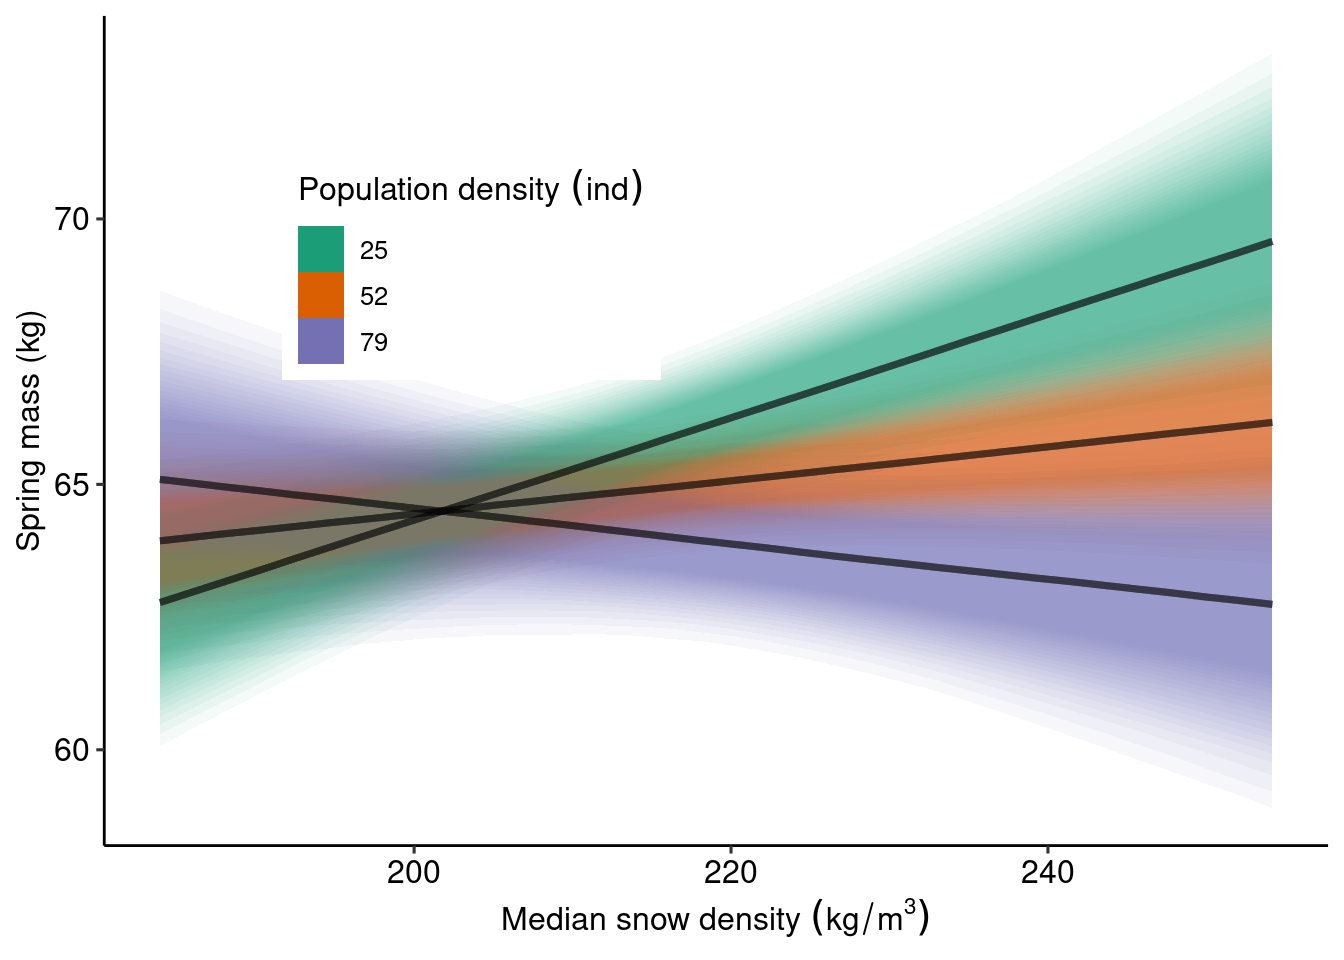
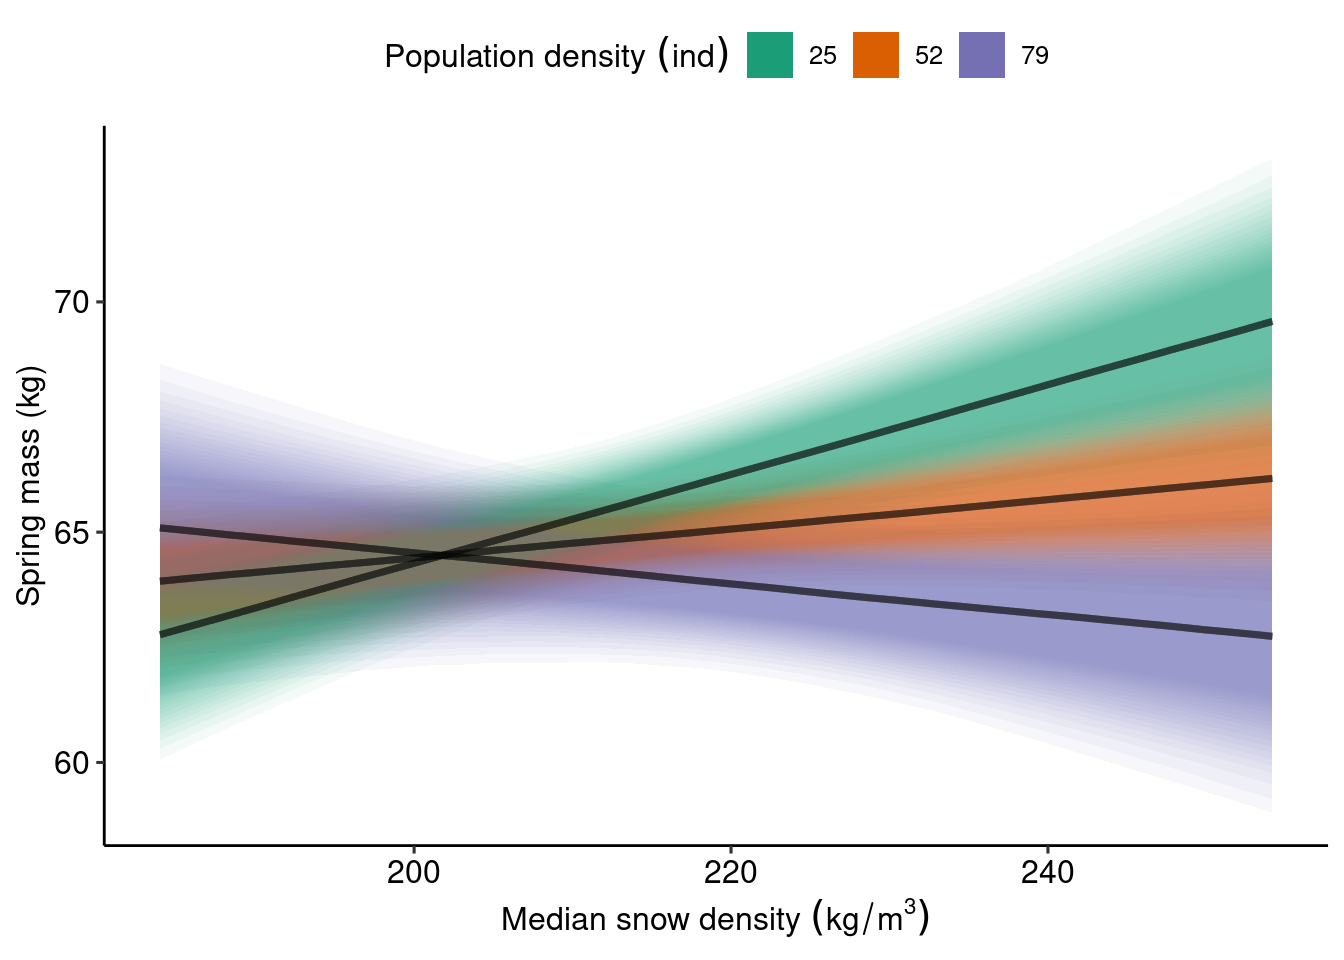
Update final plot in kallan_case_study

diff --git a/docs/kallan_case_study.html b/docs/kallan_case_study.html
@@ -411,7 +411,7 @@ pre > code.sourceCode > span > a:first-child::before { text-decoration: underlin
 <section id="plot" class="level3">
 <h3 class="anchored" data-anchor-id="plot">plot</h3>
 <div class="cell">
-<div class="sourceCode cell-code" id="cb9"><pre class="sourceCode r code-with-copy"><code class="sourceCode r"><span id="cb9-1"><a href="#cb9-1" aria-hidden="true" tabindex="-1"></a>COLS <span class="ot">&lt;-</span> <span class="fu">alpha</span>(<span class="fu">colorRampPalette</span>(<span class="fu">c</span>(<span class="st">"#d0ddd6"</span>,<span class="st">"#47a6ddb7"</span>))(<span class="dv">30</span>),<span class="fl">0.8</span>)</span>
+<div class="sourceCode cell-code" id="cb9"><pre class="sourceCode r code-with-copy"><code class="sourceCode r"><span id="cb9-1"><a href="#cb9-1" aria-hidden="true" tabindex="-1"></a>COLS <span class="ot">&lt;-</span> <span class="fu">alpha</span>(<span class="fu">colorRampPalette</span>(<span class="fu">c</span>(<span class="st">"#f7fcf9"</span>,<span class="st">"#0b6da7b7"</span>))(<span class="dv">30</span>),<span class="fl">0.8</span>)</span>
 <span id="cb9-2"><a href="#cb9-2" aria-hidden="true" tabindex="-1"></a></span>
 <span id="cb9-3"><a href="#cb9-3" aria-hidden="true" tabindex="-1"></a>plot_amass_smass <span class="sc">+</span> </span>
 <span id="cb9-4"><a href="#cb9-4" aria-hidden="true" tabindex="-1"></a>  <span class="fu">geom_line</span>(<span class="at">data =</span> p_ind_snow_smass, <span class="fu">aes</span>(<span class="at">x =</span> next_wtd12, <span class="at">y =</span> estimate, <span class="at">color =</span> avg_snow_depth, <span class="at">linewidth =</span> avg_snow_depth, <span class="at">group =</span> Reproduction_status), <span class="at">lineend =</span> <span class="st">"round"</span>) <span class="sc">+</span></span>
@@ -660,11 +660,9 @@ pre > code.sourceCode > span > a:first-child::before { text-decoration: underlin
 <span id="cb17-37"><a href="#cb17-37" aria-hidden="true" tabindex="-1"></a>    <span class="at">y =</span> <span class="st">"Spring mass (kg)"</span>,</span>
 <span id="cb17-38"><a href="#cb17-38" aria-hidden="true" tabindex="-1"></a>    <span class="at">fill  =</span> <span class="st">"Population density"</span> <span class="sc">~</span> (ind),</span>
 <span id="cb17-39"><a href="#cb17-39" aria-hidden="true" tabindex="-1"></a>  )  <span class="sc">+</span></span>
-<span id="cb17-40"><a href="#cb17-40" aria-hidden="true" tabindex="-1"></a>  <span class="fu">theme_pubr</span>() <span class="sc">+</span></span>
-<span id="cb17-41"><a href="#cb17-41" aria-hidden="true" tabindex="-1"></a>  <span class="fu">theme</span>(<span class="at">legend.position =</span> <span class="st">"inside"</span>,</span>
-<span id="cb17-42"><a href="#cb17-42" aria-hidden="true" tabindex="-1"></a>        <span class="at">legend.position.inside =</span> <span class="fu">c</span>(<span class="fl">0.3</span>, <span class="fl">0.7</span>))</span>
-<span id="cb17-43"><a href="#cb17-43" aria-hidden="true" tabindex="-1"></a></span>
-<span id="cb17-44"><a href="#cb17-44" aria-hidden="true" tabindex="-1"></a>plot_smass_snow_males</span></code><button title="Copy to Clipboard" class="code-copy-button"><i class="bi"></i></button></pre></div>
+<span id="cb17-40"><a href="#cb17-40" aria-hidden="true" tabindex="-1"></a>  <span class="fu">theme_pubr</span>()</span>
+<span id="cb17-41"><a href="#cb17-41" aria-hidden="true" tabindex="-1"></a></span>
+<span id="cb17-42"><a href="#cb17-42" aria-hidden="true" tabindex="-1"></a>plot_smass_snow_males</span></code><button title="Copy to Clipboard" class="code-copy-button"><i class="bi"></i></button></pre></div>
 <div class="cell-output-display">
 <div>
 <figure class="figure">
@@ -733,18 +731,19 @@ pre > code.sourceCode > span > a:first-child::before { text-decoration: underlin
 <span id="cb21-7"><a href="#cb21-7" aria-hidden="true" tabindex="-1"></a></span>
 <span id="cb21-8"><a href="#cb21-8" aria-hidden="true" tabindex="-1"></a>plot_ind_snow_males <span class="ot">&lt;-</span> <span class="fu">ggplot</span>() <span class="sc">+</span></span>
 <span id="cb21-9"><a href="#cb21-9" aria-hidden="true" tabindex="-1"></a>  <span class="fu">geom_line</span>(<span class="at">data =</span> p_ind_snow_smass_males, <span class="fu">aes</span>(<span class="at">x =</span> next_wtd12, <span class="at">y =</span> estimate, <span class="at">color =</span> median_density_uns, <span class="at">linewidth =</span> median_density_uns), <span class="at">lineend =</span> <span class="st">"round"</span>) <span class="sc">+</span></span>
-<span id="cb21-10"><a href="#cb21-10" aria-hidden="true" tabindex="-1"></a>  <span class="fu">scale_color_gradientn</span>(<span class="at">colours =</span> COLS, <span class="at">name =</span> <span class="st">"Med Snow Density"</span>) <span class="sc">+</span></span>
+<span id="cb21-10"><a href="#cb21-10" aria-hidden="true" tabindex="-1"></a>  <span class="fu">scale_color_gradientn</span>(<span class="at">colours =</span> COLS, <span class="at">name =</span> <span class="fu">expression</span>(<span class="st">"Median snow density "</span> (kg<span class="sc">/</span>m<span class="sc">^</span><span class="dv">3</span>))) <span class="sc">+</span></span>
 <span id="cb21-11"><a href="#cb21-11" aria-hidden="true" tabindex="-1"></a>  <span class="fu">guides</span>(<span class="at">linewidth =</span> <span class="st">"none"</span>) <span class="sc">+</span></span>
-<span id="cb21-12"><a href="#cb21-12" aria-hidden="true" tabindex="-1"></a>  <span class="fu">facet_wrap</span>(<span class="sc">~</span> Pop_Density_Label) <span class="sc">+</span></span>
-<span id="cb21-13"><a href="#cb21-13" aria-hidden="true" tabindex="-1"></a>  <span class="fu">theme</span>(<span class="at">legend.direction =</span> <span class="st">"horizontal"</span>,</span>
-<span id="cb21-14"><a href="#cb21-14" aria-hidden="true" tabindex="-1"></a>        <span class="at">legend.position =</span> <span class="st">"bottom"</span>) <span class="sc">+</span></span>
-<span id="cb21-15"><a href="#cb21-15" aria-hidden="true" tabindex="-1"></a>  <span class="fu">labs</span>(</span>
-<span id="cb21-16"><a href="#cb21-16" aria-hidden="true" tabindex="-1"></a>    <span class="at">x =</span> <span class="st">"Spring mass (kg)"</span>, </span>
-<span id="cb21-17"><a href="#cb21-17" aria-hidden="true" tabindex="-1"></a>    <span class="at">y =</span> <span class="st">"Autumn mass (kg)"</span></span>
-<span id="cb21-18"><a href="#cb21-18" aria-hidden="true" tabindex="-1"></a>  )  <span class="sc">+</span></span>
-<span id="cb21-19"><a href="#cb21-19" aria-hidden="true" tabindex="-1"></a>  <span class="fu">theme_pubr</span>()</span>
-<span id="cb21-20"><a href="#cb21-20" aria-hidden="true" tabindex="-1"></a></span>
-<span id="cb21-21"><a href="#cb21-21" aria-hidden="true" tabindex="-1"></a>plot_ind_snow_males</span></code><button title="Copy to Clipboard" class="code-copy-button"><i class="bi"></i></button></pre></div>
+<span id="cb21-12"><a href="#cb21-12" aria-hidden="true" tabindex="-1"></a>  <span class="fu">facet_wrap</span>(<span class="sc">~</span> Pop_Density_Label, </span>
+<span id="cb21-13"><a href="#cb21-13" aria-hidden="true" tabindex="-1"></a>             <span class="at">labeller =</span> <span class="fu">as_labeller</span>(<span class="fu">c</span>(<span class="st">`</span><span class="at">25</span><span class="st">`</span> <span class="ot">=</span> <span class="st">"Pop. dens. = 25"</span>,</span>
+<span id="cb21-14"><a href="#cb21-14" aria-hidden="true" tabindex="-1"></a>                                      <span class="st">`</span><span class="at">52</span><span class="st">`</span> <span class="ot">=</span> <span class="st">"Pop. dens. = 52"</span>,</span>
+<span id="cb21-15"><a href="#cb21-15" aria-hidden="true" tabindex="-1"></a>                                      <span class="st">`</span><span class="at">79</span><span class="st">`</span> <span class="ot">=</span> <span class="st">"Pop. dens. = 79"</span>))) <span class="sc">+</span></span>
+<span id="cb21-16"><a href="#cb21-16" aria-hidden="true" tabindex="-1"></a>  <span class="fu">labs</span>(</span>
+<span id="cb21-17"><a href="#cb21-17" aria-hidden="true" tabindex="-1"></a>    <span class="at">x =</span> <span class="st">"Spring mass (kg)"</span>, </span>
+<span id="cb21-18"><a href="#cb21-18" aria-hidden="true" tabindex="-1"></a>    <span class="at">y =</span> <span class="st">"Autumn mass (kg)"</span></span>
+<span id="cb21-19"><a href="#cb21-19" aria-hidden="true" tabindex="-1"></a>  )  <span class="sc">+</span></span>
+<span id="cb21-20"><a href="#cb21-20" aria-hidden="true" tabindex="-1"></a>  <span class="fu">theme_pubr</span>() </span>
+<span id="cb21-21"><a href="#cb21-21" aria-hidden="true" tabindex="-1"></a></span>
+<span id="cb21-22"><a href="#cb21-22" aria-hidden="true" tabindex="-1"></a>plot_ind_snow_males</span></code><button title="Copy to Clipboard" class="code-copy-button"><i class="bi"></i></button></pre></div>
 <div class="cell-output-display">
 <div>
 <figure class="figure">
